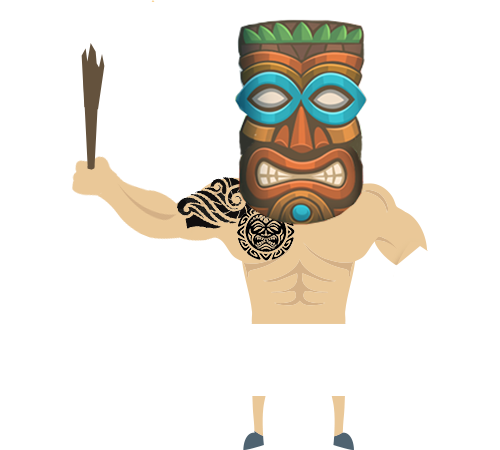
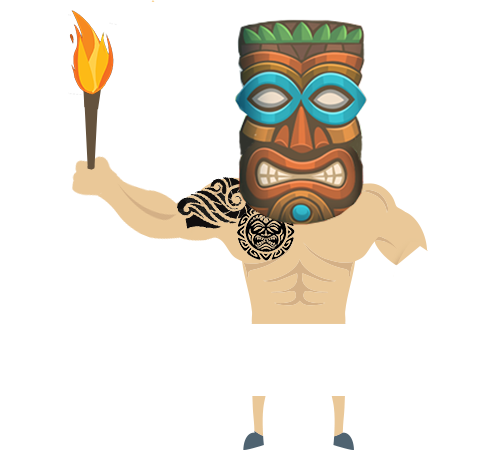
7788

Changed region(s): [[0.12, 0.0311, 0.24, 0.2178]]

diff --git a/sass/surfShop.scss b/sass/surfShop.scss
@@ -143,7 +143,7 @@ body{
 				  position: absolute;
 				  left:24%;
 				  margin-left: -100px;
-				  bottom: 75%;;
+				  bottom: 78%;;
 				}
 				.mo-fire svg {
 				  width: 100%;
@@ -646,8 +646,7 @@ body{
     	   }
     	.showProd{
 		   .mo-fire {
-				  width: 62px;
-				  left:35%;
+				  display: none;
 				  
 				}	
     	 }
@@ -687,11 +686,11 @@ body{
 		  	max-height: 510px;
 		  }
 		  .showProd{
-		   .mo-fire {
-			  width: 60px;
-			  left:38%;
+		 //   .mo-fire {
+			//   width: 60px;
+			//   left:38%;
 			 
-			}
+			// }
          }
          	.pic_man{
 					position: relative;

diff --git a/css/surfShop.css b/css/surfShop.css
@@ -103,7 +103,7 @@ body {
     position: absolute;
     left: 24%;
     margin-left: -100px;
-    bottom: 75%; }
+    bottom: 78%; }
   .showProd .mo-fire svg {
     width: 100%;
     height: auto;
@@ -416,8 +416,7 @@ body {
     background-position: 0% -4%; }
 
   .showProd .mo-fire {
-    width: 62px;
-    left: 35%; }
+    display: none; }
 
   .pic_man {
     position: relative; }
@@ -440,10 +439,6 @@ body {
   #info-box {
     max-width: 300px;
     max-height: 510px; }
-
-  .showProd .mo-fire {
-    width: 60px;
-    left: 38%; }
 
   .pic_man {
     position: relative; }
